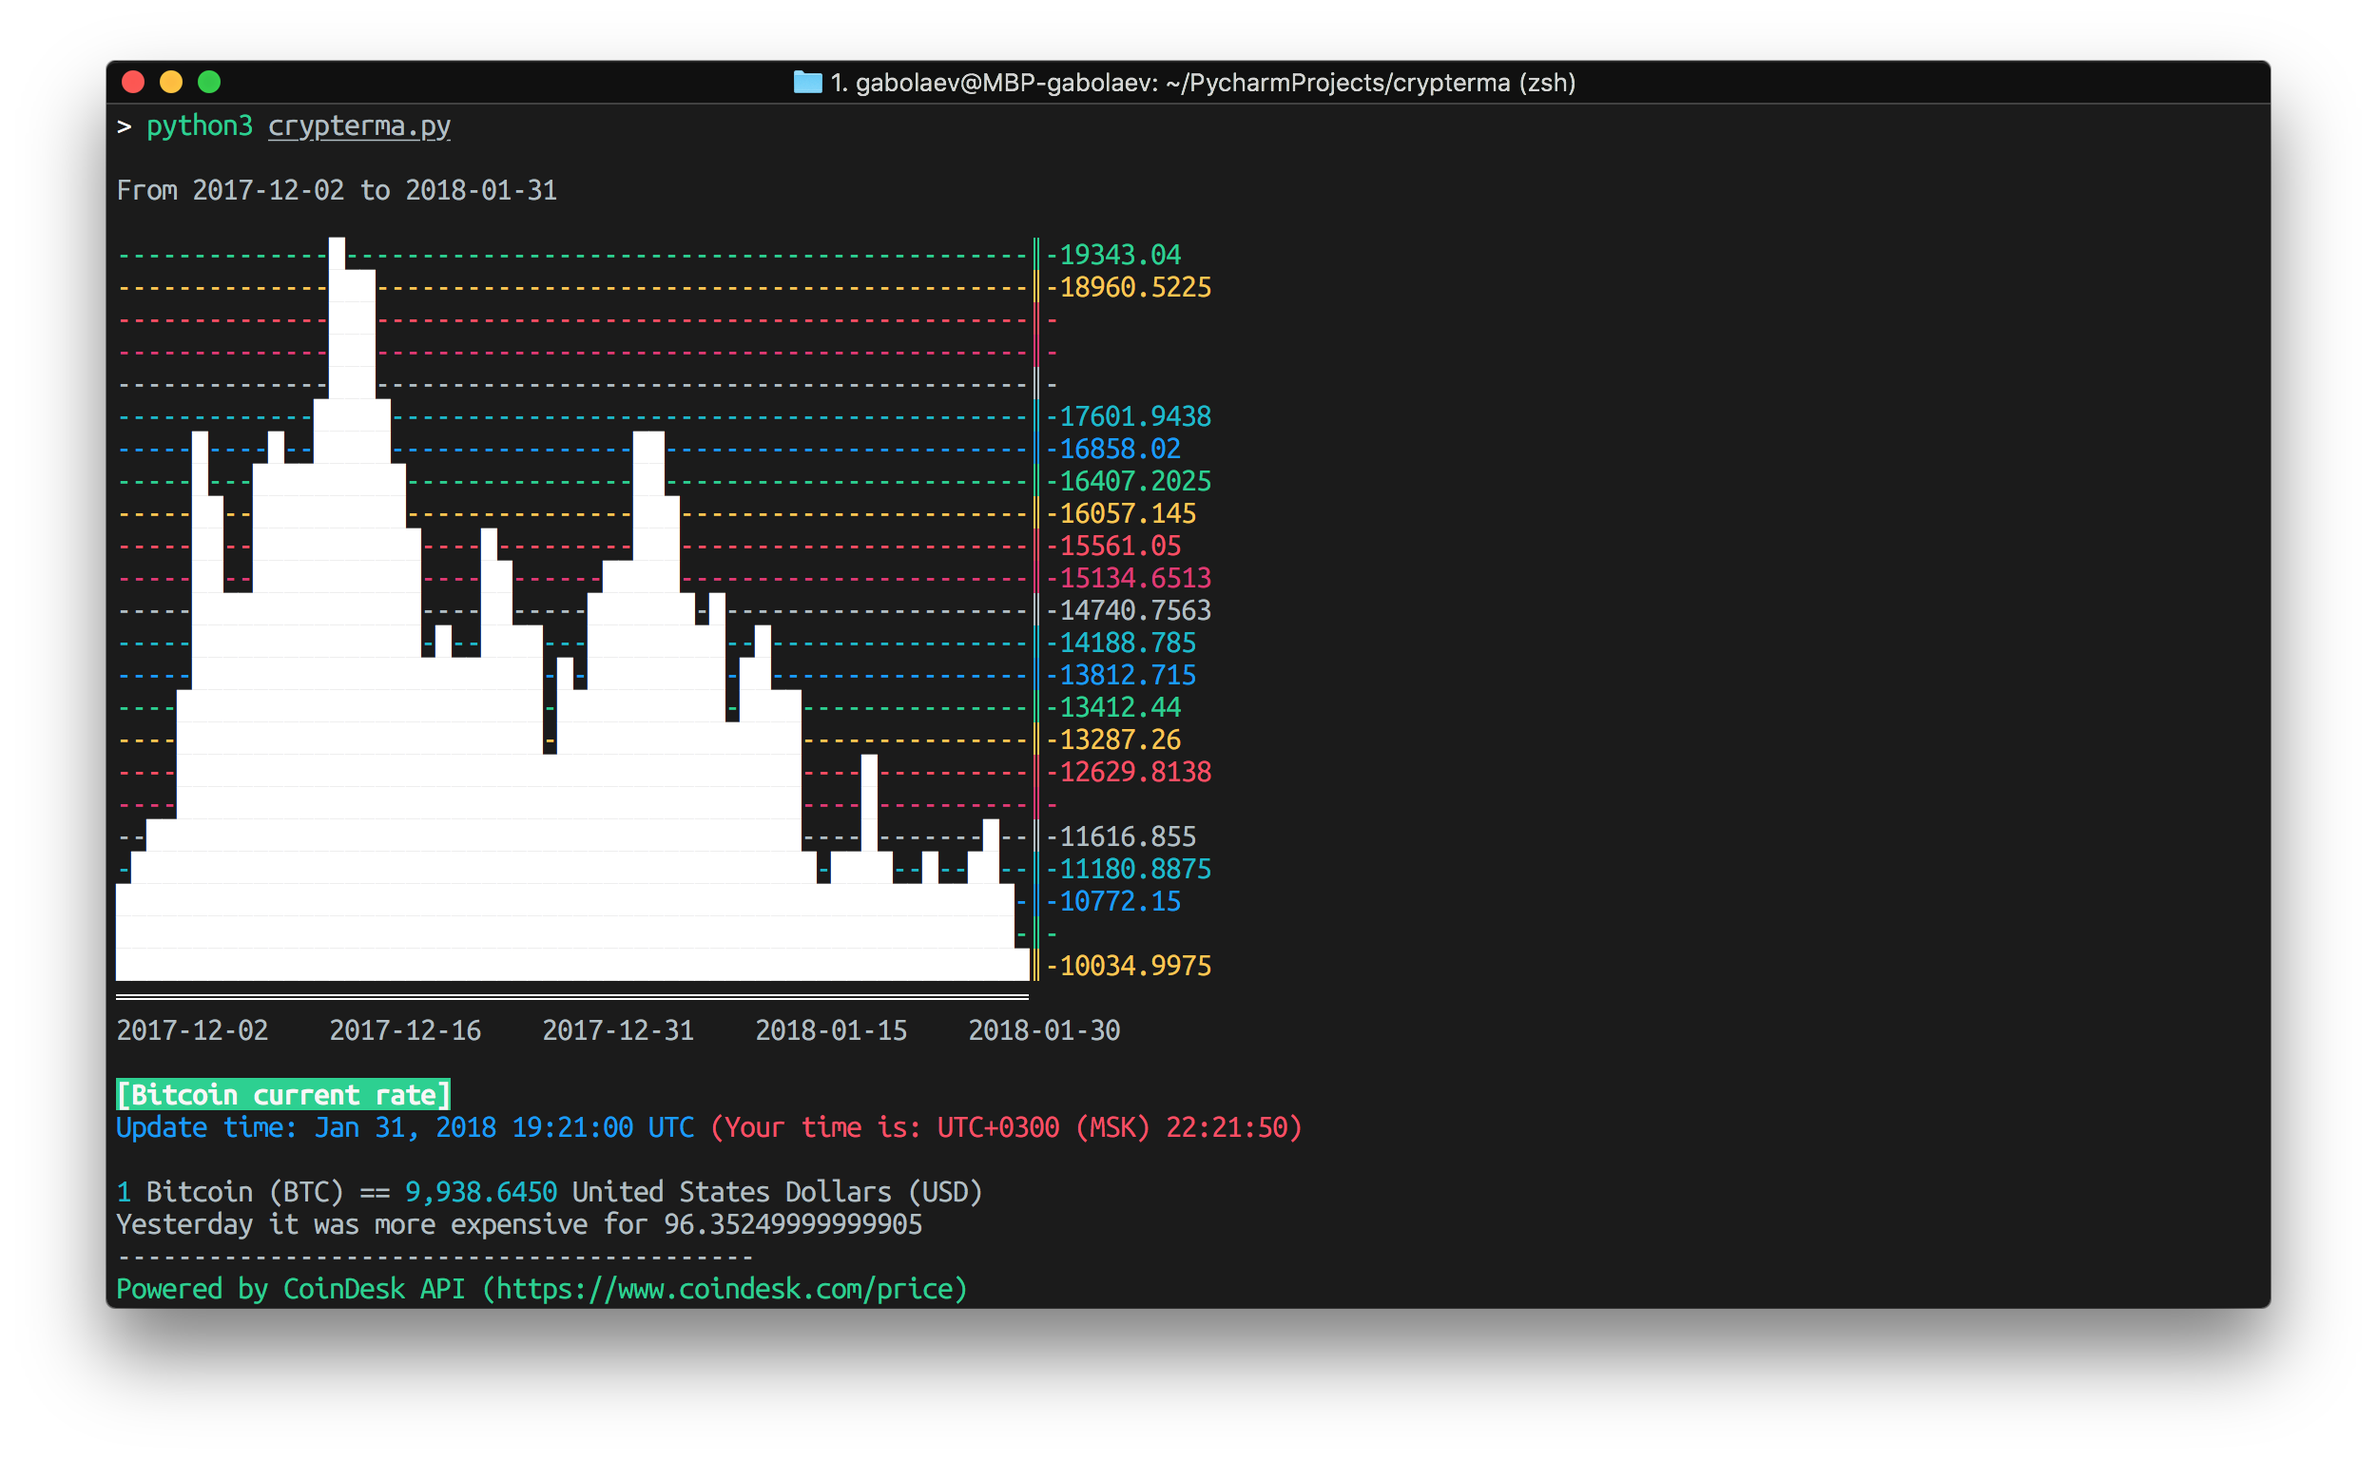
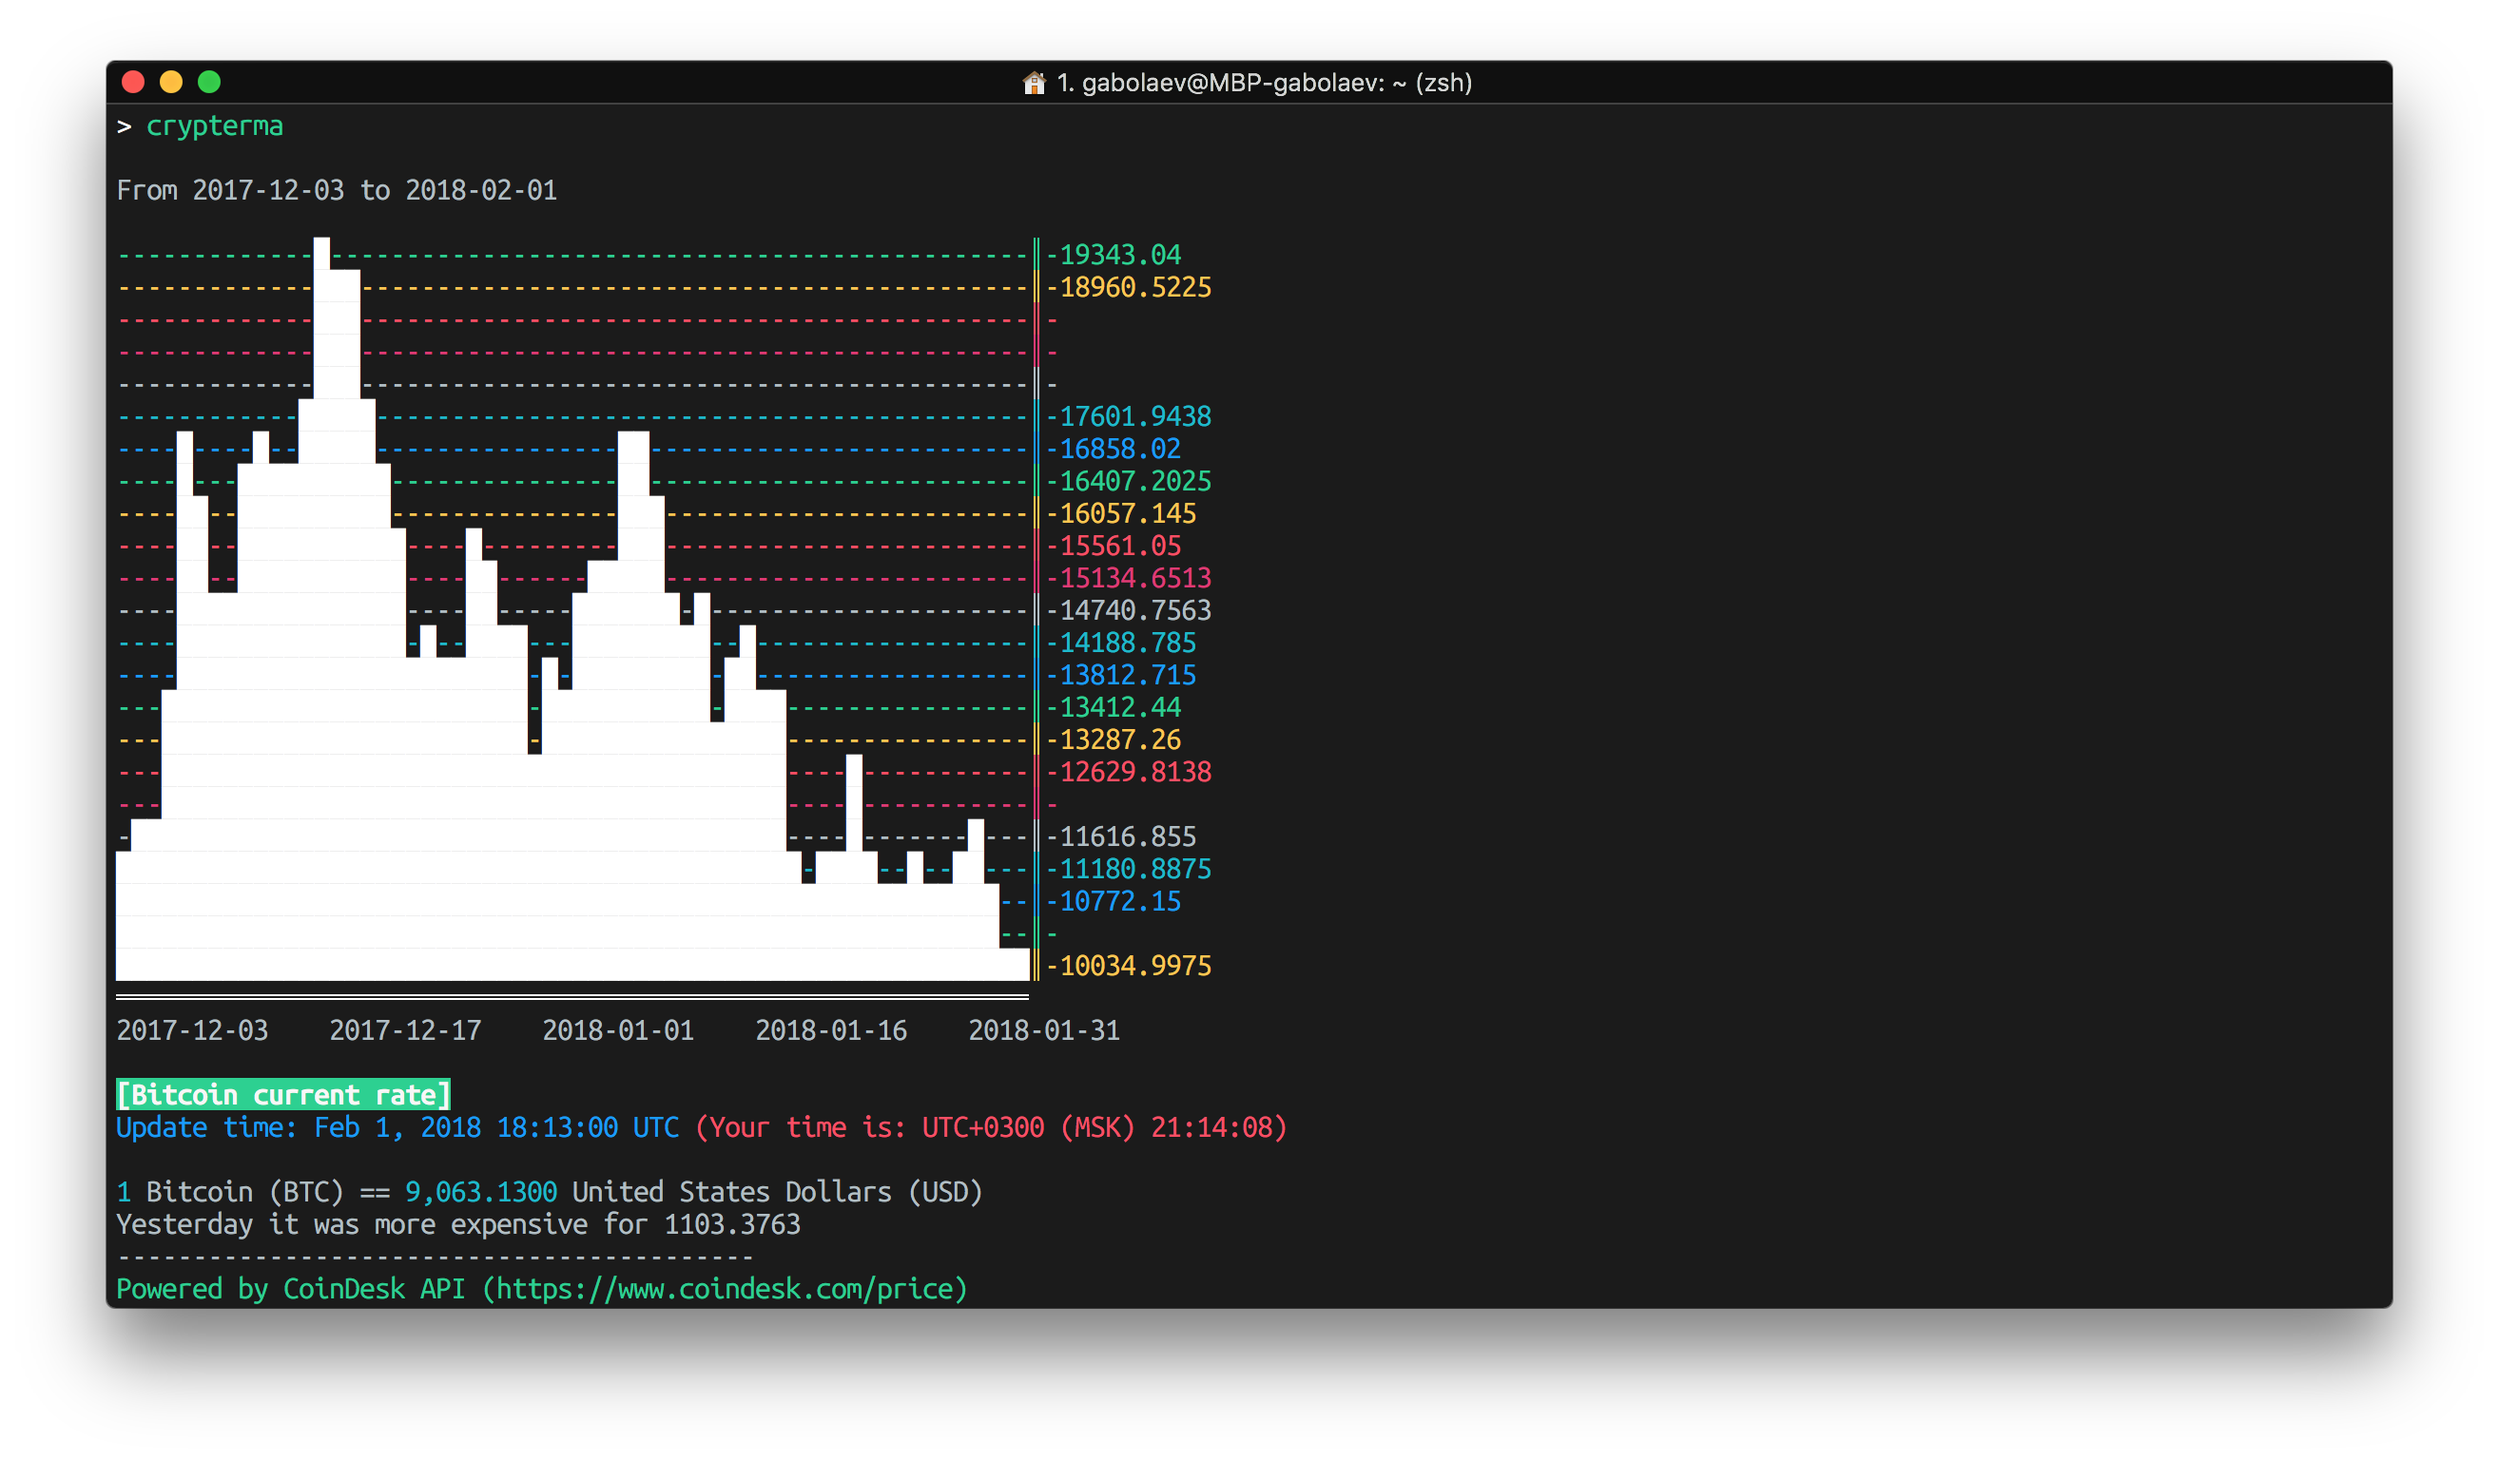
Now it's a fucking PyPi package! You can install it from pip! + Changed README and some other little shit

Changed region(s): [[0.0312, 0.0312, 0.5616, 0.9062], [0.312, 0.0312, 0.6552, 0.0625], [0.2808, 0.2188, 0.3432, 0.25]]

diff --git a/crypterma/core.py b/crypterma/core.py
@@ -1,19 +1,6 @@
-#!/usr/local/bin/python3
-# Now it's just testing file
-# Soon there will be an arg parse
-# You also can change config width and height
-# for detailed view on some time intervals
-
-
-import sys
-
 import requests
-
-import args
-import graph
-import report
-from src.config import *
-
+from .configs.config import *
+from . import graph, report
 
 def checkOk(response):
     if response.ok:
@@ -23,7 +10,6 @@ def checkOk(response):
 
 
 def run(start, end, currency='USD'):
-
     plotResponse = checkOk(requests.get(
         url=API_HISTORICAL_URL,
         params=
@@ -60,13 +46,5 @@ def run(start, end, currency='USD'):
         return print('API Error')
 
     report.printReport(todayResponse['time'],
-                       todayResponse['bpi'][currency],
-                       list(yesterdayResponse['bpi'].values())[0])
-
-
-try:
-    from_date, to_date, currency = args.parsePriorities(sys.argv[1:])
-    run(from_date, to_date, currency)
-
-except Exception as ex:
-    print(ex)
+                todayResponse['bpi'][currency],
+                list(yesterdayResponse['bpi'].values())[0])

diff --git a/crypterma/report.py b/crypterma/report.py
@@ -2,13 +2,14 @@ from time import localtime, strftime
 
 from termcolor import colored
 
-from src.config import *
+from .configs.config import *
 
 
 def printReport(timeInfo, currencyToday, priceYesterday):
     # this is a result of dirty sex between Python and HTML
     print('\n' + colored('[Bitcoin current rate]', color='white', on_color='on_green', attrs=['bold']))
-    print(colored(f'Update time: {timeInfo["updated"]}', 'blue'), colored(f'(Your time is: {strftime("UTC%z (%Z) %H:%M:%S", localtime())})\n', 'red'))
+    print(colored(f'Update time: {timeInfo["updated"]}', 'blue'),
+          colored(f'(Your time is: {strftime("UTC%z (%Z) %H:%M:%S", localtime())})\n', 'red'))
 
     difference = currencyToday['rate_float'] - priceYesterday
     currencyDesc = f'{currencyToday["description"]}s ({currencyToday["code"]}'

diff --git a/setup.py b/setup.py
@@ -1,0 +1,24 @@
+from setuptools import setup
+
+setup(
+    name='crypterma',
+    version='0.1.4',
+    description='ASCII-chart version of how Bitcoin grows',
+    long_description='''A console application that allows you to see a graph of the Bitcoin price change in any time interval. Also prints the current cost and comparison with yesterday's value.
+Almost all currencies are supported.''',
+    author='George Gabolaev',
+    author_email='gabolaev98@gmail.com',
+    url='https://github.com/gabolaev/crypterma',
+    license='MIT',
+    python_requires='>=3.6',
+    packages=['crypterma','crypterma.configs'],
+    install_requires=[
+        'termcolor',
+        'requests'
+        ],
+    entry_points={
+        'console_scripts': [
+            'crypterma = crypterma.__main__:main'
+            ]
+        }
+    )

diff --git a/crypterma/__main__.py b/crypterma/__main__.py
@@ -1,7 +1,8 @@
 import argparse
-from time import strftime, localtime, time
-
-from src.config import *
+import sys
+import crypterma
+from time import localtime, strftime, time
+from crypterma.configs import *
 
 
 def dateWithSecondsShift(seconds=0):
@@ -40,3 +41,16 @@ def parsePriorities(args):
         else:
             start = dateWithSecondsShift(STANDARD_DATE_SHIFT_SECONDS)
         return start, end, namespace.currency
+
+
+def main(args=None):
+    """The main routine."""
+    try:
+        from_date, to_date, currency = parsePriorities(sys.argv[1:])
+        crypterma.core.run(from_date, to_date, currency)
+    except Exception as ex:
+        print(ex)
+
+
+if __name__ == "__main__":
+    main()

diff --git a/crypterma/graph.py b/crypterma/graph.py
@@ -1,6 +1,5 @@
 from termcolor import colored
-
-from src.config import *
+from .configs.config import *
 
 
 def percentage(currValue, fromValue, height):

diff --git a/crypterma/__init__.py b/crypterma/__init__.py
@@ -1,0 +1,4 @@
+from .graph import *
+from .report import *
+from .configs import *
+from .core import *

diff --git a/crypterma/configs/__init__.py b/crypterma/configs/__init__.py
@@ -1,0 +1,1 @@
+from .config import *

diff --git a/README.md b/README.md
@@ -1,7 +1,11 @@
 # <div align="center">crypterma</div>
 #### ASCII-chart version of how crypto-currency grows
-
-###### examples:
+A console application that allows you to see a graph of the Bitcoin price change in any time interval. Also prints the current cost and comparison with yesterday's value.
+Almost all currencies are supported.
+###### Required Python3.6 and upper
+#### install:
+pip install crypterma
+#### examples:
 ```bash
 crypterma -f 2013-10-13 -t 2017-01-02 -c RUB # from 13 October 2013 to 2 January 2017 in Russian Rubles
 crypterma -f 2012-05-20 -c USD               # from 20 May 2012 until today in United States Dollars
@@ -13,3 +17,4 @@ crypterma                                    # for the last 2 months in United S
 ```
 
 <img src="https://github.com/gabolaev/crypterma/blob/master/src/example.png">
+
